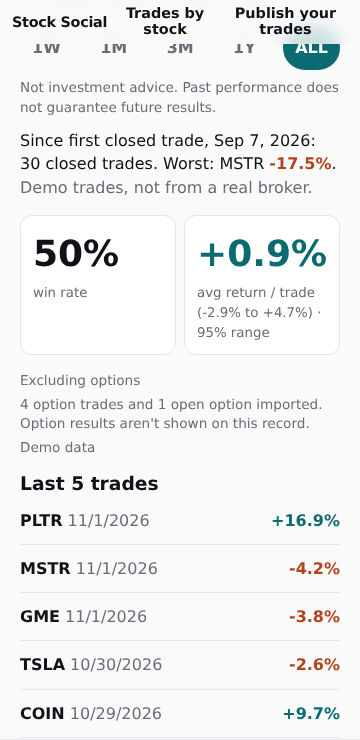
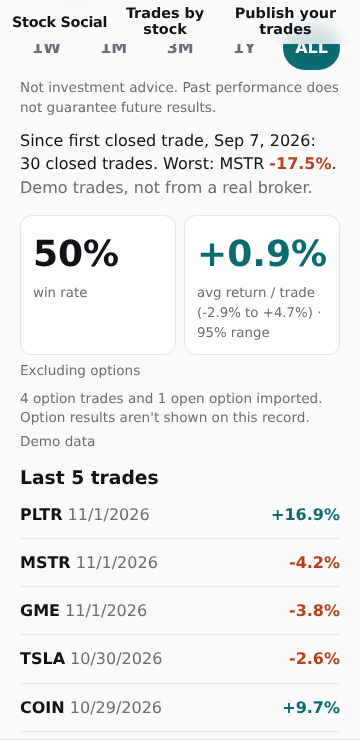
F-29: QA report and re-shot pane screenshots
Claude-Session: https://claude.ai/code/session_01Cdty8obE147EADsSNcram4

diff --git a/docs/features/logs/F-29/qa.md b/docs/features/logs/F-29/qa.md
@@ -1,0 +1,85 @@
+# F-29 · QA (tester, 2026-11-02)
+
+Branch `claude/f29-gated-options-wording` at 6a28c863, plus the uncommitted user-test spacing change (the pane label rule
+`margin-top: -10px; margin-bottom: 8px` in `app/globals.css`, the gap checks in `e2e/f29-gated-wording.spec.ts`, and the
+CSS pin in `lib/f29-gated-wording.test.ts`). Everything below was run against a build of that working tree.
+
+## Checks run
+- `npm run build`: passes. `npx tsc --noEmit`: clean (at 07b34976). `node --test lib/f29-gated-wording.test.ts`: 14/14.
+- Full Playwright suite, in four chunks against one `npm run start` (env as in the brief): **365 tests, 358 passed,
+  6 skipped, 1 failed**.
+  - The failure is `e2e/fixes-labels.spec.ts:242` (C1 AC7: `.hide-bar` stays empty after the touch swipe). It is the
+    known pre-existing failure, it fails alone as well, and it does not touch F-29 code. The 7 tests after it in that
+    file were skipped by the failure in the first chunk. Re-run with `--grep-invert "C1 \(AC7\)"`, all 7 pass.
+  - `e2e/f29-gated-wording.spec.ts` and the six first-screen tests the plan names (`fixes-labels.spec.ts:119`, `:167`,
+    `record-strip.spec.ts:84`, `:125`, `f13-first-visit.spec.ts:116`, `f10-followups.spec.ts:148`) all pass after
+    the spacing change.
+  - The e2e run rewrites `docs/features/logs/F-2/screenshots`. They were restored with
+    `git checkout -- docs/features/logs/F-2/screenshots`.
+- Exploratory, signed out, 360x740 and 320x740, light and dark (script output in the findings below). Screenshots are in
+  `docs/features/logs/F-29/qa/`: `<w>-<scheme>-feed-card.png`, `-pane.png` (the pane as it opens), `-profile.png`,
+  `-how.png`, `<w>-light-profile-full.png`, and `<w>-light-pane-figures.png` (the pane scrolled to its figures, shot
+  again after the spacing change).
+
+## Acceptance criteria, as observed in the app
+| AC | Observed | Result |
+|---|---|---|
+| 1 /how, both states | /how `#options + p` is `data-options-how="interim"` with the signed words. "consented", "not asked" and "declined" appear nowhere on the page at either width or theme. The open state is checked only on the mounted component (the page itself cannot flip without a deploy). | Pass |
+| 2 one qualifier per card and pane, in position | Feed card for yolo_yuki: 1 "Excluding options" (in the strip, 4 px under the average), 1 count line. Pane: 1 plus the chart caption ("· excluding options", lowercase), right after `section.stats`, then `.pane-options`. Profile: 1 (directly above the stats) plus the caption. | Pass |
+| 3 shares and alt keep the qualifier | og:image:alt and twitter:image:alt carry "excluding options". The unit test re-asserts the F4-4 figures. | Pass |
+| 4 announced with the headline | Reading order (e2e ariaSnapshot) passes. Pane: the label now sits 6 px under the tiles and 8+ px above the count line. | Pass |
+| 5 no "not asked" or "declined" | Source scan, and the rendered text of feed, pane, profile, /how, trade and month pages. | Pass |
+| 6 no pre-flip cache | curl: pane `?v=2&g=o0` gives `public, max-age=60`. `?v=2`, `&g=o1` and `&g=x` give `no-store` (200). Story `&g=o0` gives `public, max-age=300`, and `g=o1` or no g gives `no-store`. opengraph-image with any g, or none, gives `public, max-age=0, must-revalidate`. Profile, /how and feed give `private, no-store`. og:image and twitter:image are `…/opengraph-image?g=o0`. The client bundle's LazyPane fetches `withGate(...)`. | Pass |
+| 7 sign-off recorded | `legal-signoff.md` quotes the words, which match the cycle-5 ballots (`approval-2026-11-01-cycle5-ballots.md:501`). The PR body is still to be checked by the reviewer. | Pass (file) |
+| 8 words verbatim | Byte-equal on the running /how page. | Pass |
+| 9 flip in one process | /how and pane bodies differ (mounted). The share part is not applicable by design and is left unticked for the business lead. | Pass (with the noted gap) |
+| 10 360/320 with F-21/F-34 lines | Checked only on a mounted fictional pane that has no chart. See finding 1. | Partial |
+
+## Findings
+
+### 1. Medium (usability/spec): in the real pane at 360x740 the qualifier and the bottom of the headline tiles open below the fold, and the AC 10 test does not see it
+Repro: run `npm run start`, open the feed at 360x740, scroll to yolo_yuki's row and swipe to the pane (`row.scrollTo({left: row.clientWidth})`),
+and leave the pane at scrollTop 0. Measured: disclaimer 478–517 (in view), headline `section.stats` 615–755 (its last
+line, "95% range", is past 740), and "Excluding options" 761–781, off the first screen. At 320x740 the stats start at
+694 and the label sits at 930. Before D5 the label sat above the stats (about 615), so it was in view when the pane
+opened. A reader now sees 50% and +0.9% with no qualifier until they scroll. The hero "+12.6%" keeps its caption
+qualifier, so the first screen is not unqualified, but the headline figures decision (b) names are.
+The AC 10 and D5-stop e2e mount `ProfilePane` without a chart (`e2e/f29-render.ts` passes no `chart`), so the tiles
+sit high and the "headline in view at 360" check passes on a layout that is not the real pane. Suggest: run the AC 10
+check on the real seeded pane, or give the fixture the chart and range controls. Then decide, with the owner or
+council, whether the label must be in view when the pane opens (the D5 fallback, label above the stats, would bring
+it back).
+
+### 2. Low (spec): the label sits in different places on the profile and in the pane
+Repro: open `/u/yolo_yuki` at 360 (the label is above the tiles, 200–219, tiles from 227), then the pane (the label is
+below the tiles). Both follow the plan (D4 and D5), but a reader who goes from the swipe pane to the profile sees the
+same qualifier move. Worth a line in the user test.
+
+### 3. Low (test strength): the qualifier counts are case-sensitive
+`/Excluding options/g` in `paneQualifier` and in the card count does not count the lowercase "excluding options" (the
+chart caption's wording). A second lowercase qualifier added outside a figcaption, in the pane or the card, would pass
+AC 2. Today the only lowercase one is in a figcaption (checked case-insensitively: pane and profile each have 1
+`.share-label` plus 1 FIGCAPTION, and the card has 1). Suggest `/excluding options/gi` after removing the figcaption.
+
+### 4. Low (test/plan accuracy): "/how stays static" is not true at runtime
+The build route table lists `/how` as `ƒ` (dynamic), and the response is `private, no-cache, no-store`. The unit test
+"AC6 (E6): /how stays static" only checks the source (no `revalidate`/`dynamic` export). This is harmless, since a
+dynamic, no-store /how can never serve a pre-flip body, but the plan's premise (D2, "/how is static") and the test's
+name are wrong. Rename the test or drop the claim.
+
+### 5. Low (cache, by design): opengraph-image routes ignore `g`
+`/u/<h>/opengraph-image?g=o1` is served today with the same headers as `g=o0` (`max-age=0, must-revalidate`), so the key
+only busts the URL. This is acceptable because the image body is identical in both gate states (plan B3/E7) and the
+header forces revalidation. Noted for the AC 9 wording that goes back to the design session.
+
+### 6. Low (pre-existing, not F-29): double full stop in the profile og:description
+Repro: `curl -s localhost:3000/u/yolo_yuki | grep og:description` shows "…aren't shown on this record.. Not investment
+advice." `OPTIONS.gated` ends in "." and `app/u/[handle]/page.tsx:138` appends `. ${DISCLAIMER}`. This is unchanged by
+F-29 and belongs in a separate fix.
+
+### Not exercised in the app
+- The owner's share-prompt and story URLs (signed in), and the Similar sheet's LazyPane fetch (the seed has no Similar
+  rows signed out). Both are covered by the source tests, and the built client chunk shows
+  `fetch(withGate(\`/u/${…}/pane?v=${…}\`))`.
+
+No Blocking findings.
